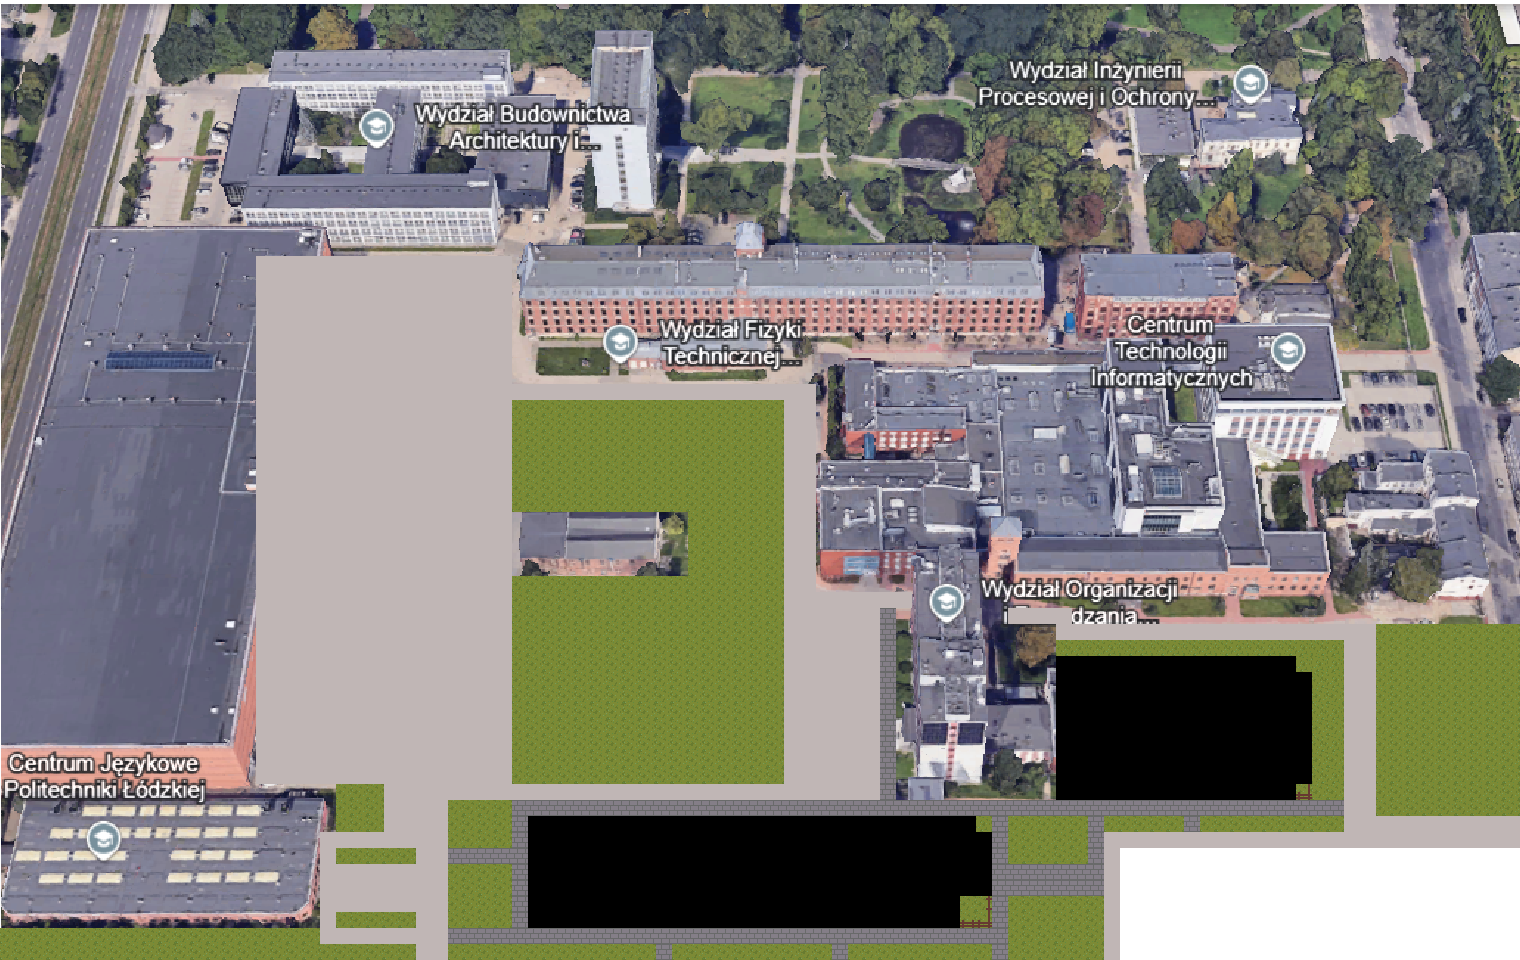
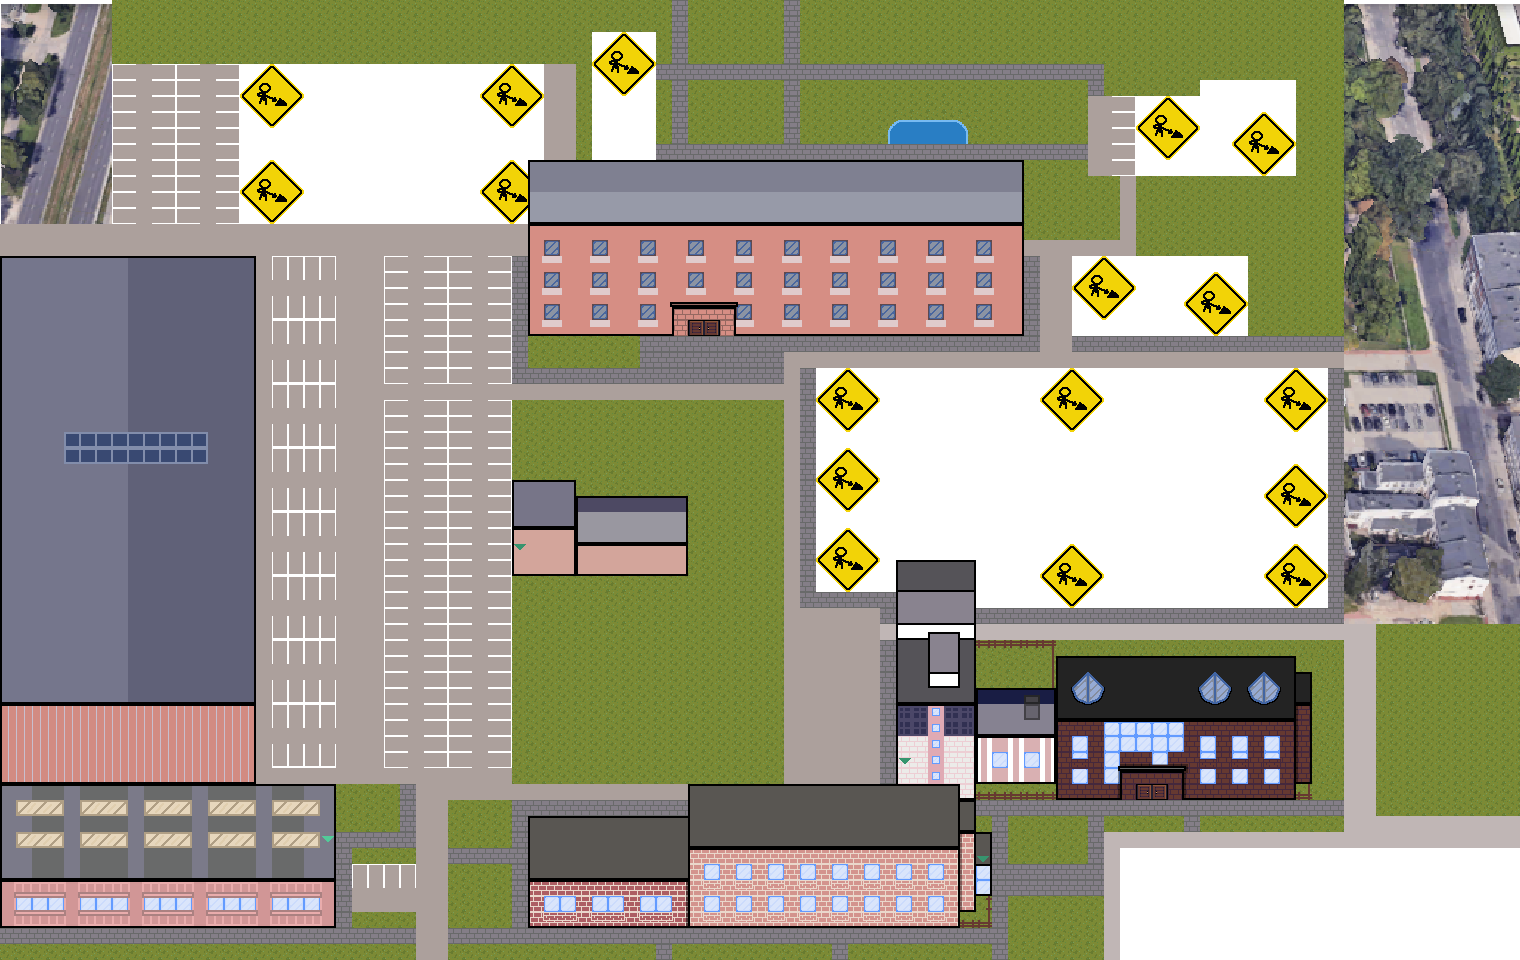
General graphics update with character sign showing up when hidden behind building

diff --git a/engine/entities/character.py b/engine/entities/character.py
@@ -3,7 +3,7 @@ import pygame
 
 
 class Character(pygame.sprite.Sprite):
-    def __init__(self, x = None, y= None):
+    def __init__(self, x = None, y= None, seen: bool = True):
         """
         CALLING SUPER INIT:
             Calling pygame.sprite.Sprite initializer for all the functionality of parent class.
@@ -20,25 +20,28 @@ class Character(pygame.sprite.Sprite):
         super(Character, self).__init__()
 
         self.spriteFront = [
-            pygame.image.load("engine/images/character_front/front_single1.png"),
-            pygame.image.load("engine/images/character_front/front_single2.png"),
-            pygame.image.load("engine/images/character_front/front_single3.png"),
-            pygame.image.load("engine/images/character_front/front_single4.png")
+            pygame.image.load("engine/images/character/character_front/front_single1.png"),
+            pygame.image.load("engine/images/character/character_front/front_single2.png"),
+            pygame.image.load("engine/images/character/character_front/front_single3.png"),
+            pygame.image.load("engine/images/character/character_front/front_single4.png")
         ]
         self.spriteBack = [
-            pygame.image.load("engine/images/character_back/back_single1.png"),
-            pygame.image.load("engine/images/character_back/back_single2.png"),
-            pygame.image.load("engine/images/character_back/back_single3.png"),
-            pygame.image.load("engine/images/character_back/back_single4.png")
+            pygame.image.load("engine/images/character/character_back/back_single1.png"),
+            pygame.image.load("engine/images/character/character_back/back_single2.png"),
+            pygame.image.load("engine/images/character/character_back/back_single3.png"),
+            pygame.image.load("engine/images/character/character_back/back_single4.png")
         ]
         self.spriteLeft = [
-            pygame.image.load("engine/images/character_side/side_single1.png"),
-            pygame.image.load("engine/images/character_side/side_single2.png"),
-            pygame.image.load("engine/images/character_side/side_single3.png"),
-            pygame.image.load("engine/images/character_side/side_single4.png")
+            pygame.image.load("engine/images/character/character_side/side_single1.png"),
+            pygame.image.load("engine/images/character/character_side/side_single2.png"),
+            pygame.image.load("engine/images/character/character_side/side_single3.png"),
+            pygame.image.load("engine/images/character/character_side/side_single4.png")
         ]
-
         self.spriteRight = [ pygame.transform.flip(sprite, True, False) for sprite in self.spriteLeft ]
+
+        self.spriteHidden = pygame.image.load("engine/images/character/character_sign.png")
+        self.seen = seen
+
 
         self.spriteDirections = {
             c.DOWN: self.spriteFront,
@@ -48,7 +51,12 @@ class Character(pygame.sprite.Sprite):
         }
 
         self.currentDirection = c.DOWN
-        self.currentSprites = self.spriteDirections[c.DOWN]
+
+        if self.seen:
+            self.currentSprites = self.spriteDirections[c.DOWN]
+        else:
+            self.currentSprites = [self.spriteHidden]
+
         self.currentFrame = 0
         self.gameFramesCounter = 0
         self.frameCount = len(self.spriteBack)
@@ -81,7 +89,8 @@ class Character(pygame.sprite.Sprite):
         self.rect.x += self.d_x
         self.rect.y += self.d_y
         self.update_position()
-        self.update_sprite()
+        if self.seen:
+            self.update_sprite()
 
     def update_position(self) -> None:
         """
@@ -121,4 +130,3 @@ class Character(pygame.sprite.Sprite):
             self.image = self.currentSprites[0]
         else:
             self.isStopped = False
-

diff --git a/engine/constants.py b/engine/constants.py
@@ -1,7 +1,7 @@
 #MAIN VALUES
 SCALE = 5
 FPS = 60
-SPEED = 1
+SPEED = 5
 
 # NATIVE SCREEN DIMENSIONS
 NATIVE_WIDTH = 240
@@ -34,7 +34,7 @@ INSIDE_SCREEN = "INSIDE_SCREEN"
 SECOND_INSIDE_SCREEN = "SECOND_INSIDE_SCREEN"
 
 # GAME STATE TERRAIN LOAD DICTIONARY
-STATE_DICT = {MAIN_SCREEN: "engine/terrains/main_terrain.txt",
+STATE_DICT = {MAIN_SCREEN: "engine/terrains/terrain.txt",
               INSIDE_SCREEN: "engine/terrains/inside_terrain.txt",
               SECOND_INSIDE_SCREEN: "engine/terrains/second_inside_terrain.txt"}
 
@@ -60,10 +60,11 @@ MOVING_CAMERA = "MOVING_CAMERA"
 
 # LAYER INDEXES
 BACKGROUND_LAYER = 0
-BUILDINGS_LAYER = 1
-BUILDING_FRONT_LAYER = 2
+CHARACTERS_LAYER = 1
+BUILDINGS_LAYER = 2
 PORTAL_LAYER = 3
-CHARACTERS_LAYER = 4
+BUILDING_FRONT_LAYER = 4
+FX_LAYER = 5
 
 # ENTITIES NAMES
 BACKGROUND = "BACKGROUND"
@@ -71,6 +72,7 @@ BUILDING = "BUILDING"
 BUILDING_FRONT = "BUILDING_FRONT"
 PORTAL = "PORTAL"
 CHARACTER = "CHARACTER"
+FX = "FX"
 
 # GAME STATE CHANGE
 NO_JUMP = "NO_JUMP"
@@ -81,13 +83,29 @@ BACK_MODE = "BACK_MODE"
 # BUILDING NAMES
 DMCS = "DMCS"
 BIBLIOTEKA = "BIBLIOTEKA"
+CJ = "CJ"
+ZATOKASPORTU = "ZATOKASPORTU"
+WOIZ = "WOIZ"
+ARCH = "ARCH"
+WFTIMS = "WFTIMS"
+BLOCKADE = "BLOCKADE"
 
 # BUILDING FILE NAMES DICTIONARY
 BUILDING_FILE_DICTIONARY = {
-    DMCS: ["engine/images/DMCS_znacznik.png", "engine/images/DMCS_budynek.png"],
-    BIBLIOTEKA: ["engine/images/BIBLIOTEKA_znacznik.png", "engine/images/BIBLIOTEKA_budynek.png"]
+    DMCS: ["engine/images/DMCS/DMCS_znacznik.png", "engine/images/DMCS/DMCS_budynek.png"],
+    BIBLIOTEKA: ["engine/images/BIBLIOTEKA/BIBLIOTEKA_znacznik.png", "engine/images/BIBLIOTEKA/BIBLIOTEKA_budynek.png"],
+    CJ: ["engine/images/CJ/CJ_znacznik.png", "engine/images/CJ/CJ_budynek.png"],
+    ZATOKASPORTU: ["engine/images/ZATOKASPORTU/ZATOKASPORTU_znacznik.png", "engine/images/ZATOKASPORTU/ZATOKASPORTU_budynek.png"],
+    WOIZ: ["engine/images/WOIZ/WOIZ_znacznik.png", "engine/images/WOIZ/WOIZ_budynek.png"],
+    ARCH: ["engine/images/ARCH/ARCH_znacznik.png", "engine/images/ARCH/ARCH_budynek.png"],
+    WFTIMS: ["engine/images/WFTIMS/WFTIMS_znacznik.png", "engine/images/WFTIMS/WFTIMS_budynek.png"]
 }
 
 #PORTAL OFFSET
-PORTAL_OFFSET = {DMCS: (5,4),
-                 BIBLIOTEKA: (27, 2)}
+PORTAL_OFFSET = {DMCS: (5,4, 2*TILE_WIDTH, 1*TILE_HEIGHT),
+                 BIBLIOTEKA: (28, 2, 1*TILE_WIDTH, 2*TILE_HEIGHT),
+                 CJ: (20, 3, 1*TILE_WIDTH, 2*TILE_HEIGHT),
+                 ZATOKASPORTU: (None, None, None, None),
+                 WOIZ: (0, 6, 1*TILE_WIDTH, 2*TILE_HEIGHT),
+                 ARCH: (0, 1, 1*TILE_WIDTH, 2*TILE_HEIGHT),
+                 WFTIMS: (10, 4, 2*TILE_WIDTH, 1*TILE_HEIGHT)}

diff --git a/engine/builder.py b/engine/builder.py
@@ -1,8 +1,8 @@
 import pygame
 import constants as c
-from building import Building
-from character import Character
-from background import Background
+from entities.building import Building, Blockade
+from entities.character import Character
+from entities.background import Background
 
 def build(build_file: str) -> dict:
     backgrounds = pygame.sprite.Group()
@@ -10,11 +10,13 @@ def build(build_file: str) -> dict:
     fronts = pygame.sprite.Group()
     portals = pygame.sprite.Group()
     characters = pygame.sprite.Group()
+    fx = pygame.sprite.Group()
     layers_dict = {c.BACKGROUND: backgrounds,
-                        c.BUILDING: buildings,
-                        c.BUILDING_FRONT: fronts,
-                        c.PORTAL: portals,
-                        c.CHARACTER: characters}
+                   c.CHARACTER: characters,
+                   c.BUILDING: buildings,
+                   c.PORTAL: portals,
+                   c.BUILDING_FRONT: fronts,
+                   c.FX: fx}
 
     with open(build_file, "r") as f:
         for row in f:
@@ -26,18 +28,24 @@ def build(build_file: str) -> dict:
             if entity_type == c.BUILDING:
                 building_type = entity[3]
                 new_building = Building(entity_x, entity_y, c.BUILDING_FILE_DICTIONARY[building_type][0], building_type)
-                portal = new_building.create_portal()
                 building_front = new_building.create_front(c.BUILDING_FILE_DICTIONARY[building_type][1])
                 layers_dict[c.BUILDING_FRONT].add(building_front)
-                layers_dict[c.PORTAL].add(portal)
+                portal = new_building.create_portal()
+                if portal is not None:
+                    layers_dict[c.PORTAL].add(portal)
                 layers_dict[c.BUILDING].add(new_building)
+            elif entity_type == c.BLOCKADE:
+                width = int(entity[3])
+                height = int(entity[4])
+                new_blockade = Blockade(entity_x, entity_y, width, height)
+                layers_dict[c.BUILDING].add(new_blockade)
 
             elif entity_type == c.CHARACTER:
                 new_character = Character()
                 layers_dict[c.CHARACTER].add(new_character)
 
             else: 
-                new_entity = Background(entity_x, entity_y, "engine/images/outside.png")
+                new_entity = Background(entity_x, entity_y, "engine/images/outside_dupe.png")
                 layers_dict[c.BACKGROUND].add(new_entity)
 
 

diff --git a/engine/entities/building.py b/engine/entities/building.py
@@ -38,12 +38,14 @@ class Building(pygame.sprite.Sprite):
         self.building_name = building_name
 
     def create_portal(self):
-        off_x, off_y = c.PORTAL_OFFSET[self.building_name]
+        off_x, off_y, width, height = c.PORTAL_OFFSET[self.building_name]
+        if off_x is None or off_y is None:
+            return None
 
         portal_x = self.x + off_x*c.TILE_WIDTH
         portal_y = self.y + off_y*c.TILE_HEIGHT
 
-        portal = Portal(portal_x, portal_y, "engine/images/portal.png", c.SECOND_INSIDE_SCREEN)
+        portal = Portal(portal_x, portal_y, width, height, c.SECOND_INSIDE_SCREEN)
 
         return portal
 
@@ -66,8 +68,51 @@ class Building(pygame.sprite.Sprite):
         self.rect.x += self.d_x
         self.rect.y += self.d_y
 
-class Portal(Building):
-    def __init__(self, x: int, y: int, image_path: str, destination: str):
-        super(Portal, self).__init__(x, y, image_path, None)
+class Portal(pygame.sprite.Sprite):
+    def __init__(self, x: int, y: int, width: int, height: int, destination: str):
+        super(Portal, self).__init__()
 
         self.destination = destination
+
+        self.image = pygame.Surface((width, height))
+        self.rect = self.image.get_rect()
+        self.rect.x = x
+        self.rect.y = y
+
+        self.x = x
+        self.y = y
+
+        self.d_x = 0
+        self.d_y = 0
+
+    def update(self) -> None:
+        """
+        RECTANGLE X AND Y CHANGE:
+            Changing the rectangle x and y, by incrementing it with correct axis speed/change.
+        """
+        self.rect.x += self.d_x
+        self.rect.y += self.d_y
+
+class Blockade(pygame.sprite.Sprite):
+    def __init__(self, x: int, y: int, width: int, height: int):
+        super(Blockade, self).__init__()
+
+        self.image = pygame.Surface((width, height))
+        self.image.fill((52,75,35))
+        self.rect = self.image.get_rect()
+        self.rect.x = x
+        self.rect.y = y
+
+        self.x = x
+        self.y = y
+
+        self.d_x = 0
+        self.d_y = 0
+
+    def update(self) -> None:
+        """
+        RECTANGLE X AND Y CHANGE:
+            Changing the rectangle x and y, by incrementing it with correct axis speed/change.
+        """
+        self.rect.x += self.d_x
+        self.rect.y += self.d_y

diff --git a/engine/movement_processor.py b/engine/movement_processor.py
@@ -1,5 +1,6 @@
 import constants as c
 from algorithms.collision_detection import CollisionDetection
+from entities.character import Character
 
 class MovementProcessor:
     def __init__(self, camera_mode: str) -> None:
@@ -59,13 +60,25 @@ class MovementProcessor:
         is_collision_with_building, num_of_collisions = collision_detector.check_collision(layers[c.BUILDINGS_LAYER])
         is_out_of_bounds = collision_detector.check_out_of_bounds(layers[c.BACKGROUND_LAYER])
 
+        count = 0
+        for obj in layers[c.BUILDING_FRONT_LAYER]:
+            obj_seen = collision_detector.check_out_of_bounds([obj])
+            if not obj_seen:
+                count += 1
+
+        is_seen = count == 0
+        if not is_seen:
+            layers[c.FX_LAYER].empty()
+            layers[c.FX_LAYER].add(Character(seen = False))
+        else:
+            layers[c.FX_LAYER].empty()
         if is_collision_with_building or is_out_of_bounds or is_collision_with_portal:
             if self.camera_mode == c.STATIC_CAMERA:
                 for obj in layers[c.CHARACTERS_LAYER]:
                     obj.d_x, obj.d_y = c.MOVE_TRANSLATE[c.STOP]
 
             if self.camera_mode == c.MOVING_CAMERA:
-                for layer in layers[:c.CHARACTERS_LAYER]:
+                for layer in layers[:c.CHARACTERS_LAYER] + layers[c.CHARACTERS_LAYER+1:]:
                     for obj in layer:
                         obj.d_x, obj.d_y = c.MOVE_TRANSLATE[c.STOP]
         else:
@@ -73,7 +86,7 @@ class MovementProcessor:
                 for obj in layers[c.CHARACTERS_LAYER]:
                     obj.d_x, obj.d_y = d_xy
             if self.camera_mode == c.MOVING_CAMERA:
-                for layer in layers[:c.CHARACTERS_LAYER]:
+                for layer in layers[:c.CHARACTERS_LAYER] + layers[c.CHARACTERS_LAYER+1:]:
                     for obj in layer:
                         obj.d_x, obj.d_y = -d_xy[0], -d_xy[1]
 

diff --git a/engine/graphics.py b/engine/graphics.py
@@ -24,7 +24,7 @@ class Graphics:
 
         :param display: Pygame Surface object that all the elements get rendered on.
         """
-        self.canvas.fill((0,0,0))
+        self.canvas.fill((52,75,35))
 
         for layer in self.layers:
             layer.draw(self.canvas)

diff --git a/engine/algorithms/collision_detection.py b/engine/algorithms/collision_detection.py
@@ -1,5 +1,5 @@
 import pygame
-from character import Character
+from entities.character import Character
 
 class CollisionDetection:
     def __init__(self, obj: Character, d_xy: tuple[int, int]):
